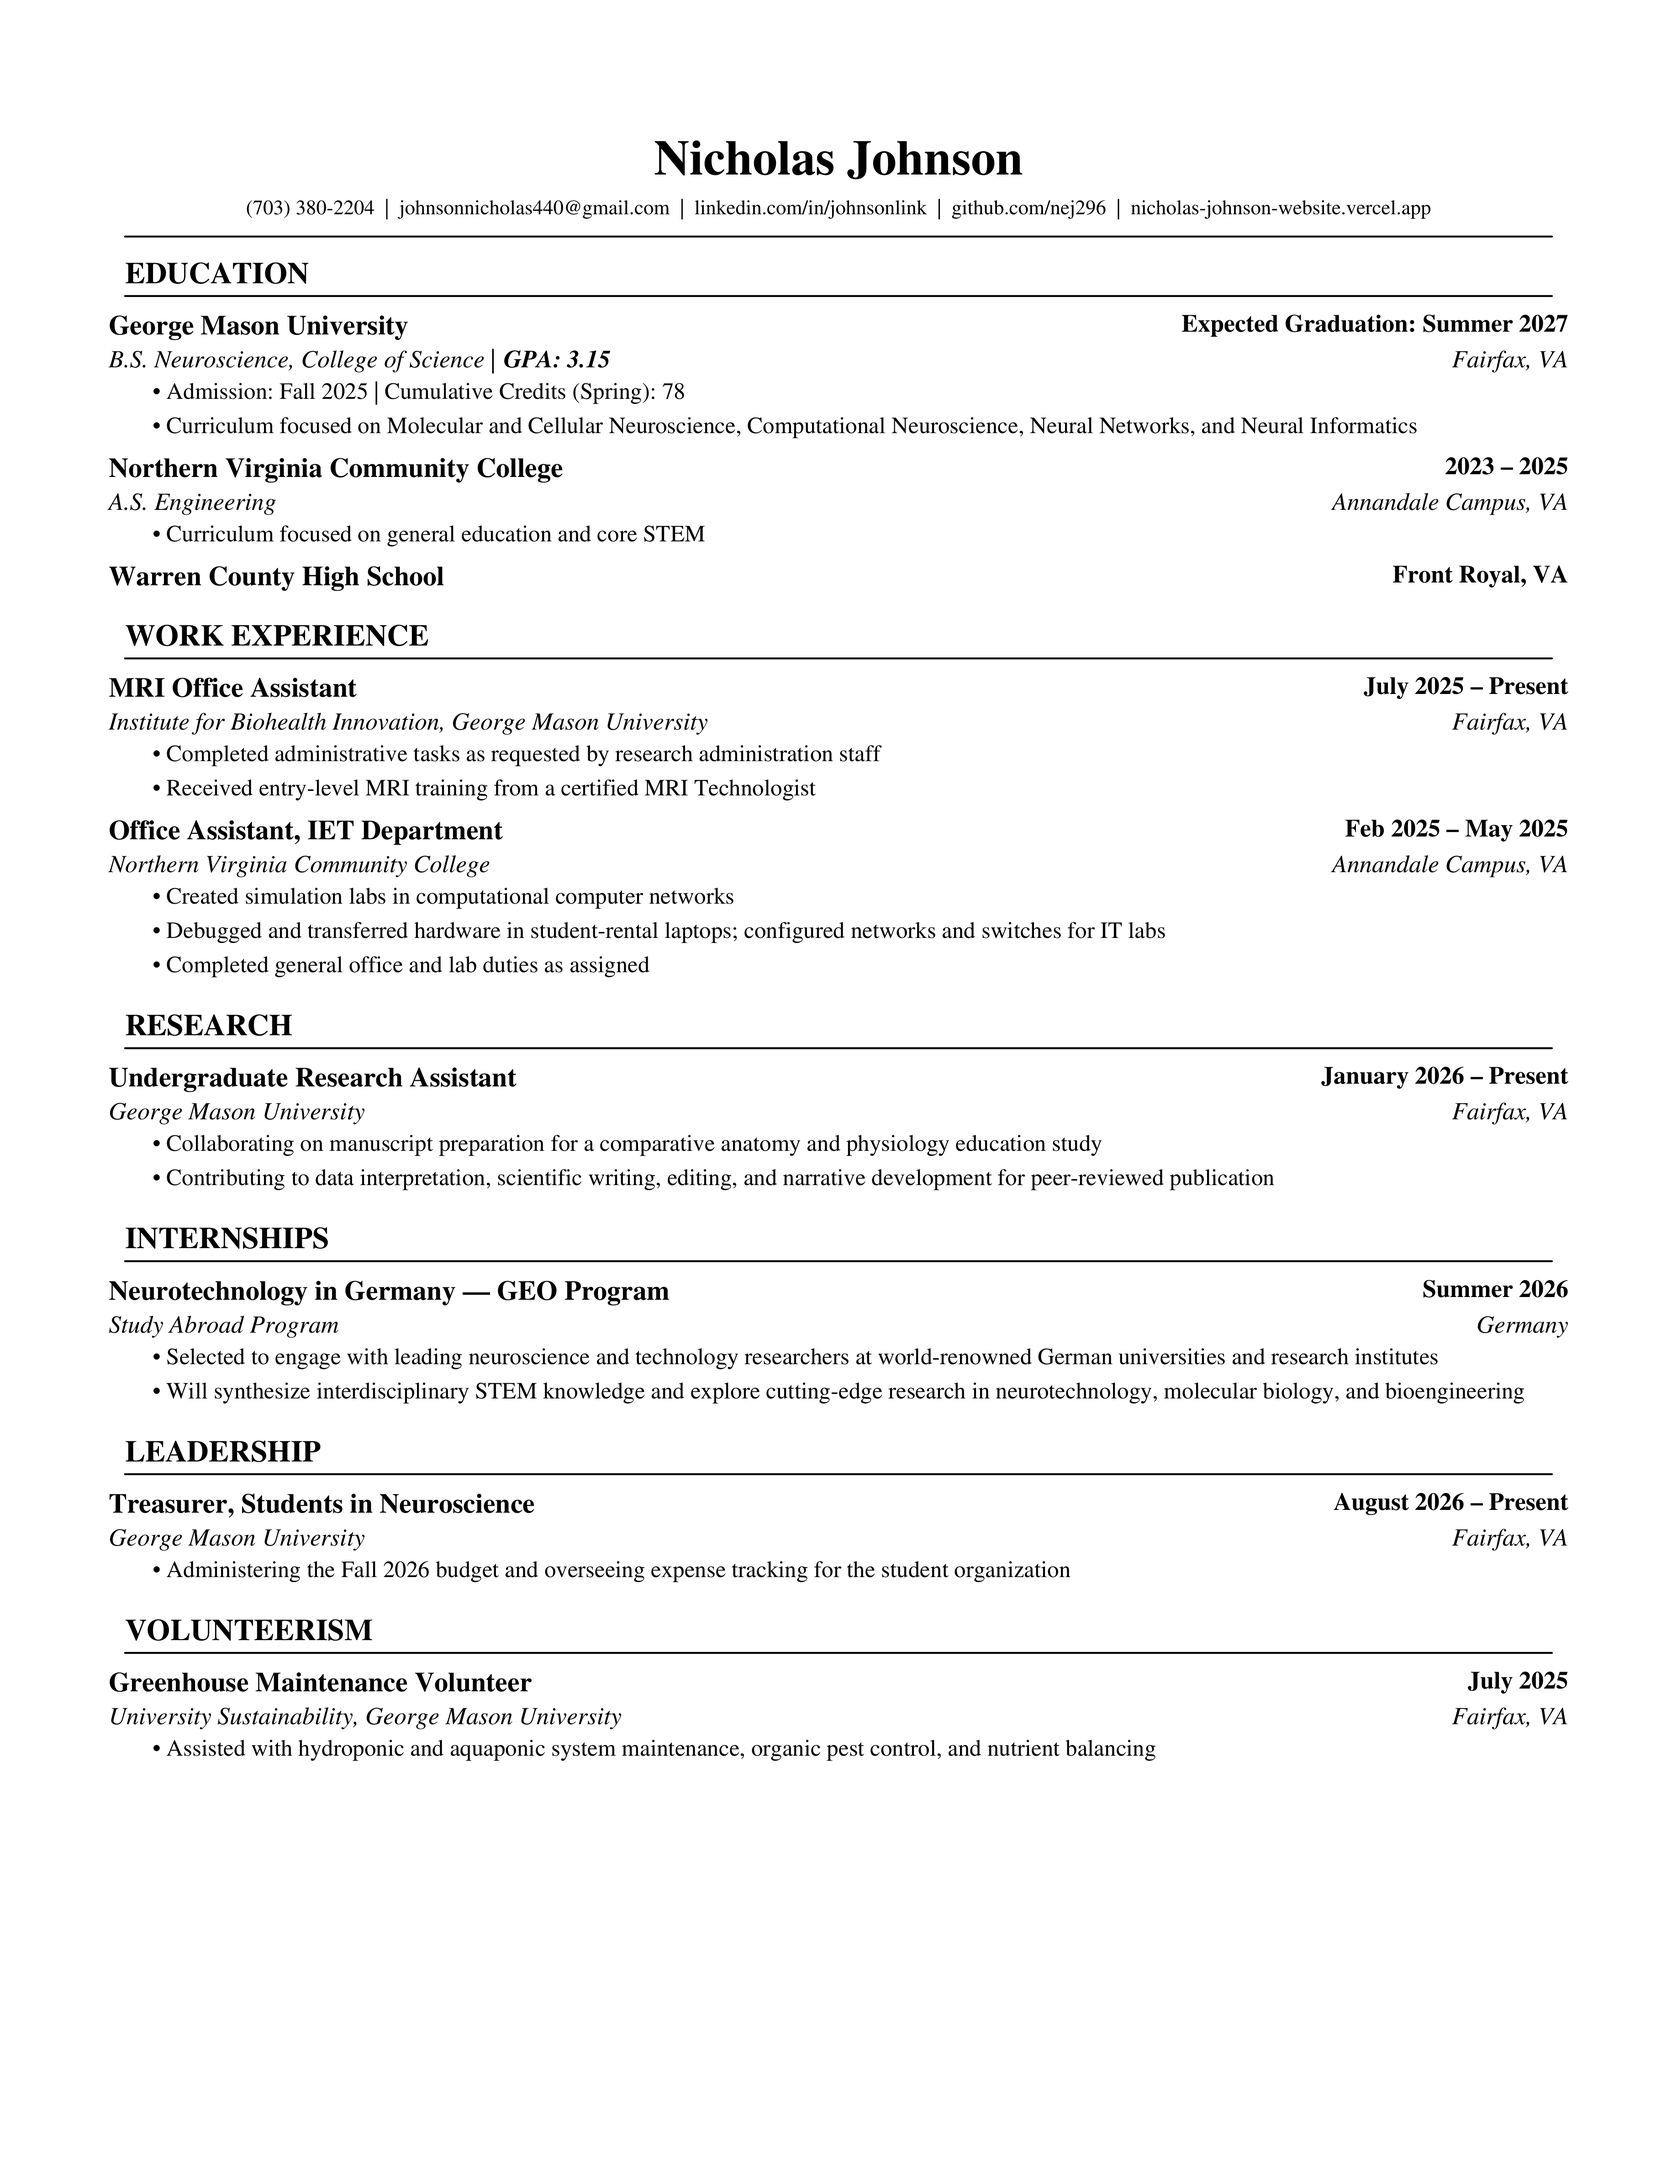
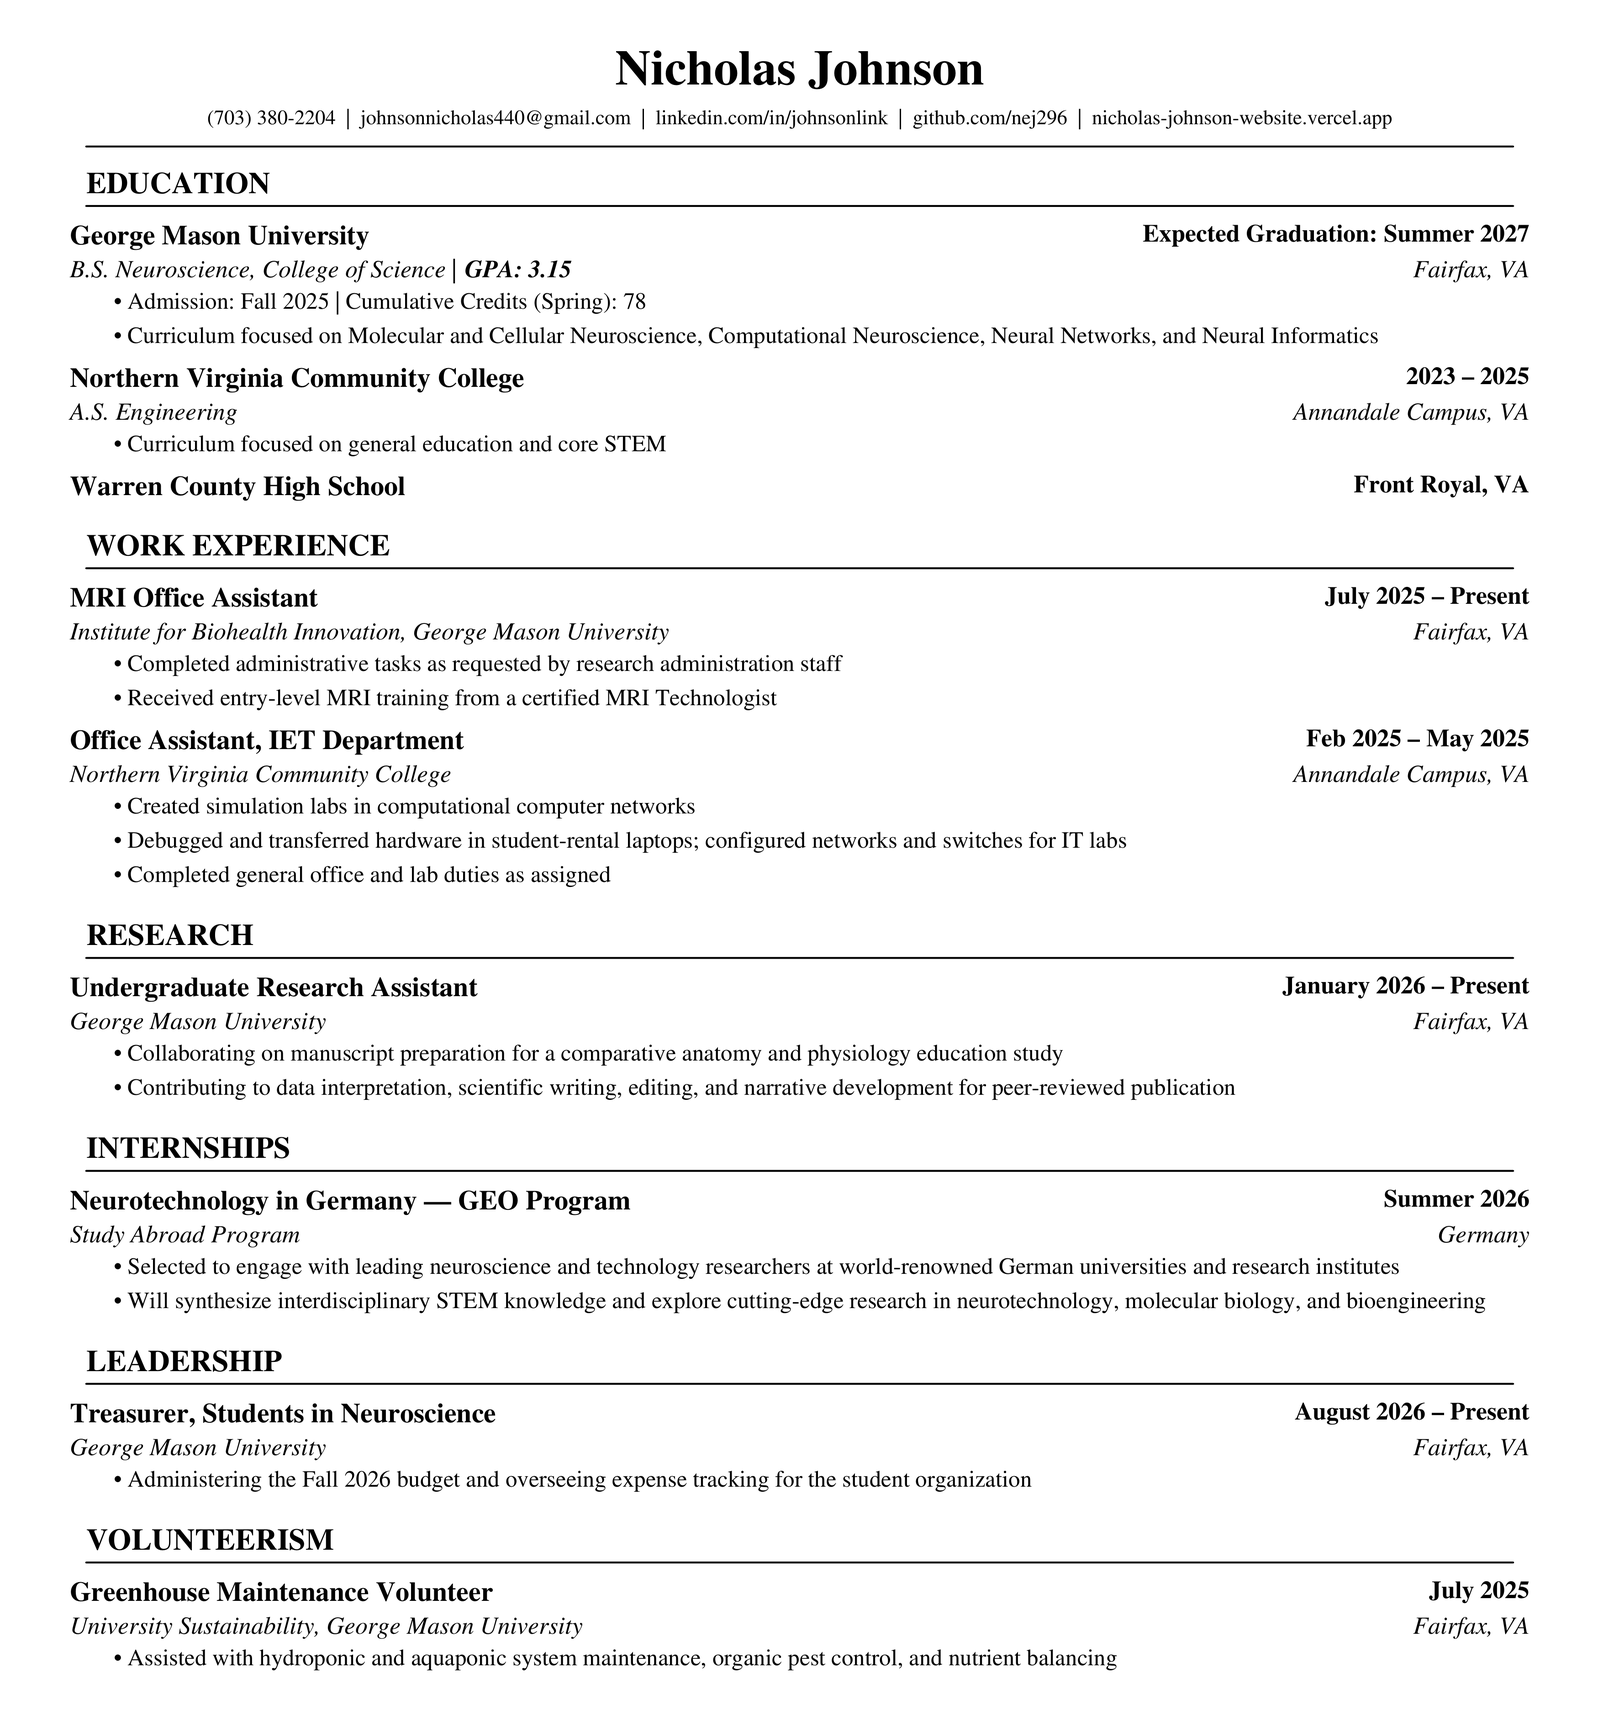
Improve resume preview readability
Made-with: Cursor

diff --git a/api/templates/index.html b/api/templates/index.html
@@ -208,11 +208,11 @@
 
     .resume-frame {
       width: 100%;
-      height: 100%;
+      height: auto;
       min-height: 0;
       display: block;
       border: none;
-      object-fit: cover;
+      object-fit: contain;
       object-position: top center;
     }
 
@@ -900,8 +900,8 @@
 
     .contact-body {
       align-items: start;
-      gap: clamp(2rem, 5vw, 5rem);
-      grid-template-columns: minmax(280px, 0.82fr) minmax(420px, 1.18fr);
+      gap: clamp(1.5rem, 3vw, 3rem);
+      grid-template-columns: minmax(260px, 0.68fr) minmax(560px, 1.5fr);
     }
 
     .contact-copy {
@@ -934,8 +934,8 @@
     }
 
     #contact .resume-frame {
-      height: min(90vh, 1040px);
-      min-height: 800px;
+      height: auto;
+      min-height: 0;
     }
 
     footer {
